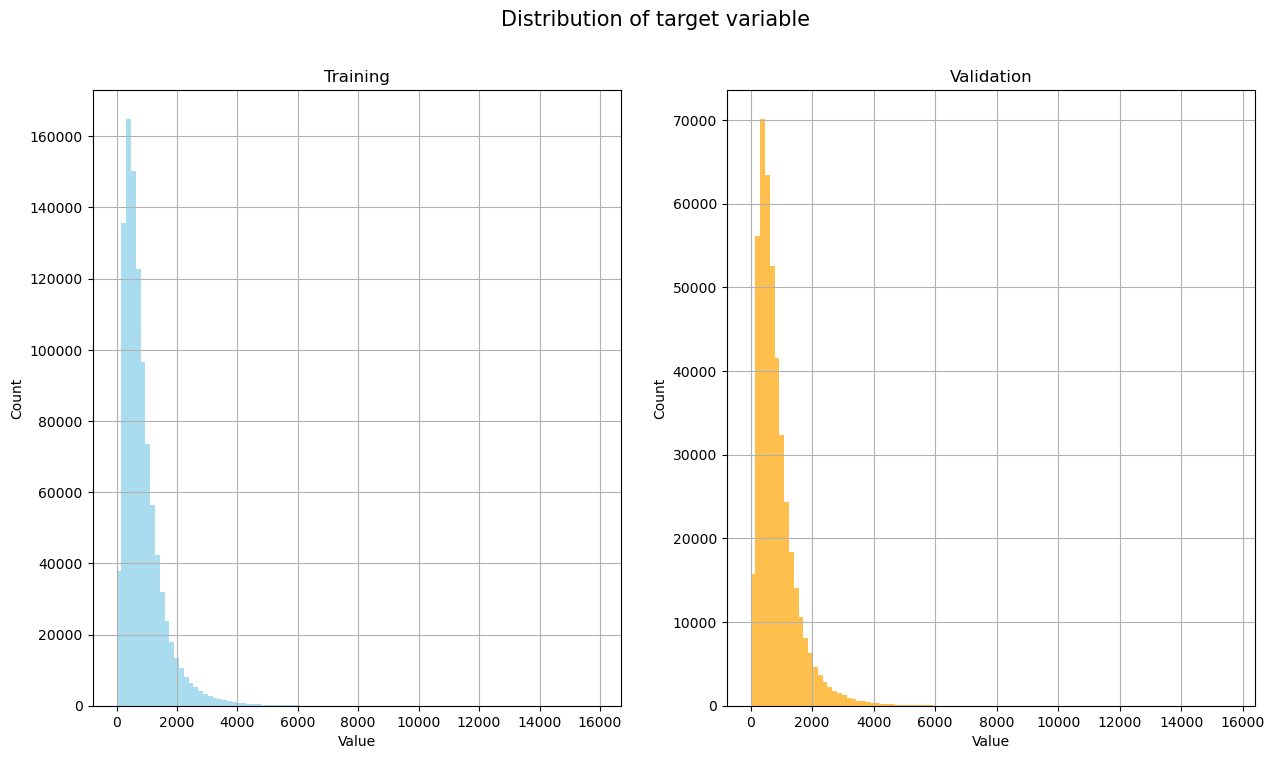
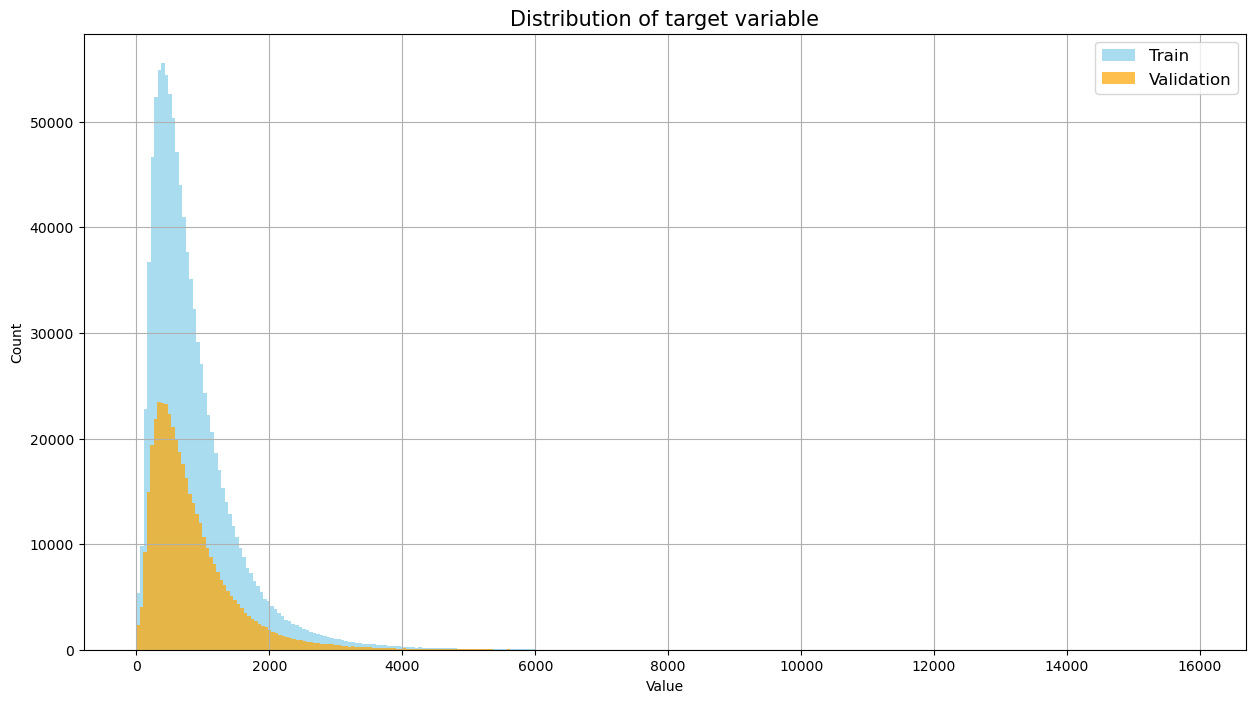
Latest versione

diff --git a/codice/preprocessing/explorative_plots.py b/codice/preprocessing/explorative_plots.py
@@ -20,25 +20,16 @@ def target_distribution(df_train, df_validation):
         df_train:        - Required   : Variabile di target del train
         df_validation:   - Required   : Variabile di target del train
     '''
-    
     fig = plt.figure(figsize = (15,8))
-    plt.suptitle("Distribution of target variable", size = 15)
-    plt.subplot(1,2,1)
-    plt.hist(df_train, bins = 100, color = "skyblue", alpha = 0.7)
-    plt.title("Training", size = 12)
+    plt.hist(df_train, bins = 300, color = "skyblue", alpha = 0.7, label = "Train")
+    plt.hist(df_validation, bins = 300, color = "orange", alpha = 0.7, label = "Validation")
     plt.xticks(fontsize = 10)
     plt.yticks(fontsize = 10)
     plt.xlabel('Value', size = 10)
     plt.ylabel('Count', size = 10)
     plt.grid()
-    plt.subplot(1,2,2)
-    plt.hist(df_validation, bins = 100, color = "orange", alpha = 0.7)
-    plt.title("Validation", size = 12)
-    plt.xticks(fontsize = 10)
-    plt.yticks(fontsize = 10)
-    plt.xlabel('Value', size = 10)
-    plt.ylabel('Count', size = 10)
-    plt.grid()
+    plt.legend(fontsize = 12)
+    plt.title("Distribution of target variable", size = 15)
     fig.savefig("explorative_pics/target_distribution.png", dpi =100, bbox_inches='tight')
     plt.close(fig)
 

diff --git a/codice/main.py b/codice/main.py
@@ -17,7 +17,7 @@ parser.add_argument('-ev', '--evaluate', action="store_true")
 parser.add_argument('-sst', '--save-steps', action="store_true")
 parser.add_argument('-dr', '--decay-rate', type=float, required=False, default=0, help ="Give the decay rate")
 parser.add_argument('-ms', '--model-schema', type=str, required=False, default = "best_model", help="Model structure")
-parser.add_argument('-o', '--output', type=str, required=False, default="risultati_modelli")
+parser.add_argument('-o', '--output', type=str, required=False, default="risultati_modelli/best_model")
 
 args = parser.parse_args()
 pd.options.mode.chained_assignment = None
@@ -38,7 +38,7 @@ def main():
     mkdir_p(args.output)
     mkdir_p(args.output + "/pics")
     computation()
-    
+
 if __name__ == "__main__":
     start_time = time.time()
     main()
